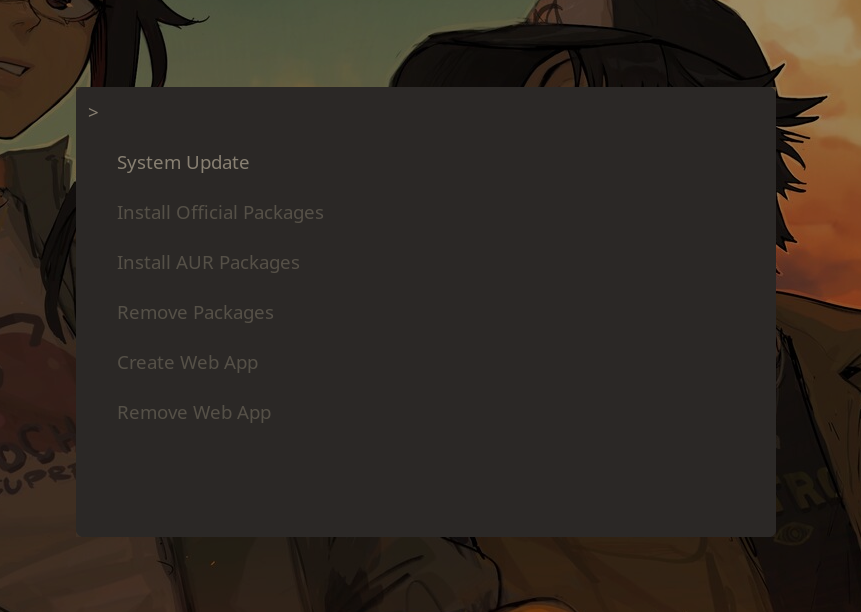
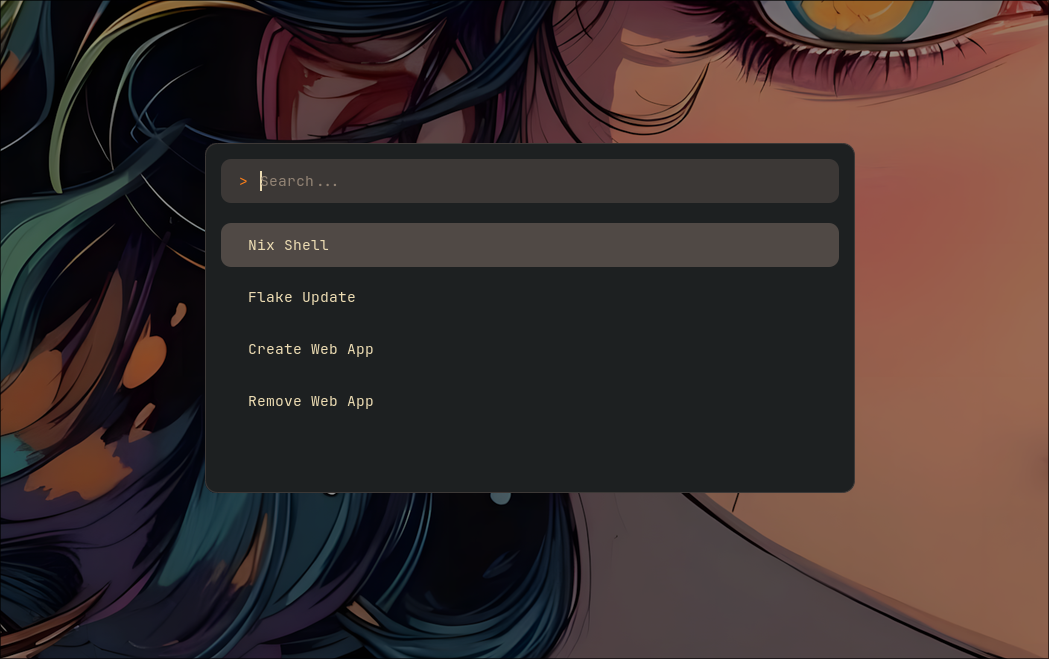
chore: [#master] updated readme

diff --git a/README.md b/README.md
@@ -365,16 +365,13 @@ Main scripts:
 ## Installation Manager
 ![Manager](./assets/screenshots/install-menu.png)
 
-The Installation Manager is a comprehensive package and webapp management system built around Rofi and FZF. It provides an intuitive interface for installing packages, managing system updates, and creating web applications. The scripts and the manager is inspired by Omachy.
+The Installation Manager provides tools for managing web applications and Nix-related tasks. It includes utilities for creating web apps and managing your Nix flake.
 
 ### Features
 
-- **Package Management**: Install/remove official Arch packages and AUR packages
-- **System Updates**: Check and apply system updates with preview
 - **Web App Creation**: Convert any website into a standalone desktop application
-- **Interactive UI**: Beautiful FZF interfaces with package previews and information
-- **Multi-selection**: Install multiple packages at once
-- **PKGBUILD Preview**: View AUR package build files before installation
+- **Nix Shell**: Search and launch temporary nix-shell environments with packages
+- **Flake Updates**: Interactive flake input updater with selective updates
 
 ### Usage
 
@@ -382,33 +379,7 @@ Launch the Installation Manager with `Super + P` and choose the action you want 
 
 #### Available Options:
 
-1. **System Update** - Check and apply system updates
-   - Shows available updates with package information
-   - Updates both official repos and AUR packages
-   - Updates locate database after completion
-
-2. **Install Official Packages** - Browse and install from official repositories
-![Pkg](./assets/screenshots/install-pkg.png)
-   - Multi-select packages with Tab
-   - Preview package information with `pacman -Sii`
-   - Browse through existing packages
-
-3. **Install AUR Packages** - Browse and install from AUR
-   - Multi-select AUR packages
-   - Preview package info and PKGBUILD files
-   - Browse through existing packages
-
-4. **Remove Packages** - Uninstall packages with dependencies
-   - Shows only explicitly installed packages
-   - Multi-select for batch removal
-   - Preview installed package information
-
-5. **System Update** - Create a system update
-   - Shows all packages that have updates
-   - see version increment of packages
-   - Preview installed package information
-
-6. **Create Web App** - Convert websites to desktop applications
+1. **Create Web App** - Convert websites to desktop applications
 ![Webapp](./assets/screenshots/create-webapp.png)
    - Enter app name, URL, and icon URL
    - Automatically downloads and sets up icons
@@ -417,39 +388,44 @@ Launch the Installation Manager with `Super + P` and choose the action you want 
    - The app can be found in the rofi menu after installation
   ![Webapp in Rofi](./assets/screenshots/webapp.png)
 
-
-7. **Remove Web App** - Clean up created web applications
+2. **Remove Web App** - Clean up created web applications
    - Lists all created web apps
    - Multi-select for batch removal
    - Removes both .desktop files and icons
+
+3. **Nix Shell** - Launch temporary shell with packages
+   - Search through all nixpkgs packages
+   - Multi-select packages with Tab
+   - Caches package list for fast subsequent searches
+   - Launches nix-shell with selected packages
+
+4. **Flake Update** - Update flake inputs
+   - Shows all current flake inputs with their revisions
+   - Select specific inputs to update or update all
+   - Optionally rebuild system after update
 
 ### Dependencies
 
 ```plaintext
 rofi
 fzf
-pacman
-yay
 gum
 curl
-kitty
+jq
 ```
 
 ### How It Works
 
 The system consists of several interconnected scripts:
 
-- `list-installer.sh` - Main rofi menu interface
-- `pkg-packman-install.sh` - Official package installation with fzf
-- `pkg-aur-install.sh` - AUR package installation with fzf
-- `pkg-remove.sh` - Package removal with fzf
-- `system-update.sh` - System update manager
 - `webapp-install.sh` - Web application creator
 - `webapp-launch.sh` - Web application launcher
 - `webapp-remove.sh` - Web application removal
+- `shell.sh` - Nix package search and nix-shell launcher
+- `flake.sh` - Flake input update manager
 - `show-done.sh` - Completion indicator
 
-All scripts use consistent styling and integrate seamlessly with the desktop environment. The web app feature is particularly powerful, allowing you to create desktop shortcuts for web services like ChatGPT, YouTube, or any web application, complete with custom icons and app-like behavior.
+All scripts use consistent styling and integrate seamlessly with the desktop environment. The web app feature allows you to create desktop shortcuts for web services like ChatGPT, YouTube, or any web application, complete with custom icons and app-like behavior.
 
 
 ## Repo finder
@@ -520,12 +496,19 @@ This script makes wallpaper management incredibly convenient - I can quickly bro
 
 ## Overview
 
-This is a modular NixOS configuration supporting multiple deployment methods:
+This is a modular Nix configuration supporting multiple deployment methods:
 
 - **NixOS + Home Manager**: Full system configuration (`desktop`, `nixvm`)
+- **nix-darwin + Home Manager**: macOS system configuration (see disclaimer below)
 - **Home Manager Only**: User-space configuration for non-NixOS systems (`nix-wsl`)
 
 All configurations share the same Home Manager modules, ensuring consistent application setups across all machines. The configuration uses **Nix Flakes** for reproducibility and a **feature-flag system** for enabling/disabling components.
+
+### nix-darwin Support
+
+> **DISCLAIMER**: nix-darwin support is experimental and has not been fully tested. The configuration exists in theory but may require adjustments for your specific setup.
+
+This configuration includes support for macOS via nix-darwin. The `modules/darwin/` directory contains macOS-specific settings (system defaults, Homebrew, firewall), while `modules/core/` contains cross-platform modules shared between NixOS and darwin.
 
 ## Configuration Files
 
@@ -591,7 +574,8 @@ Enable/disable applications and features:
        username = "yourname";
        homeDirectory = "/home/yourname";
        hostConfig = ./hosts/laptop;
-       isNixOS = true;  # or false for Home Manager only
+       system = "x86_64-linux";
+       type = "nixos";  # "nixos", "darwin", or "home-manager"
      };
    };
 ```
@@ -608,7 +592,9 @@ Enable/disable applications and features:
 ## Module Organization
 ```
 modules/
-├── core/          # System: bootloader, fonts, security
+├── core/          # Cross-platform: fonts, packages
+├── nixos/         # NixOS-specific: bootloader, security, pipewire, etc.
+├── darwin/        # macOS-specific: system defaults, homebrew, firewall
 ├── drivers/       # Hardware: nvidia, amd, intel
 └── home/
     ├── applications/  # GUI apps
